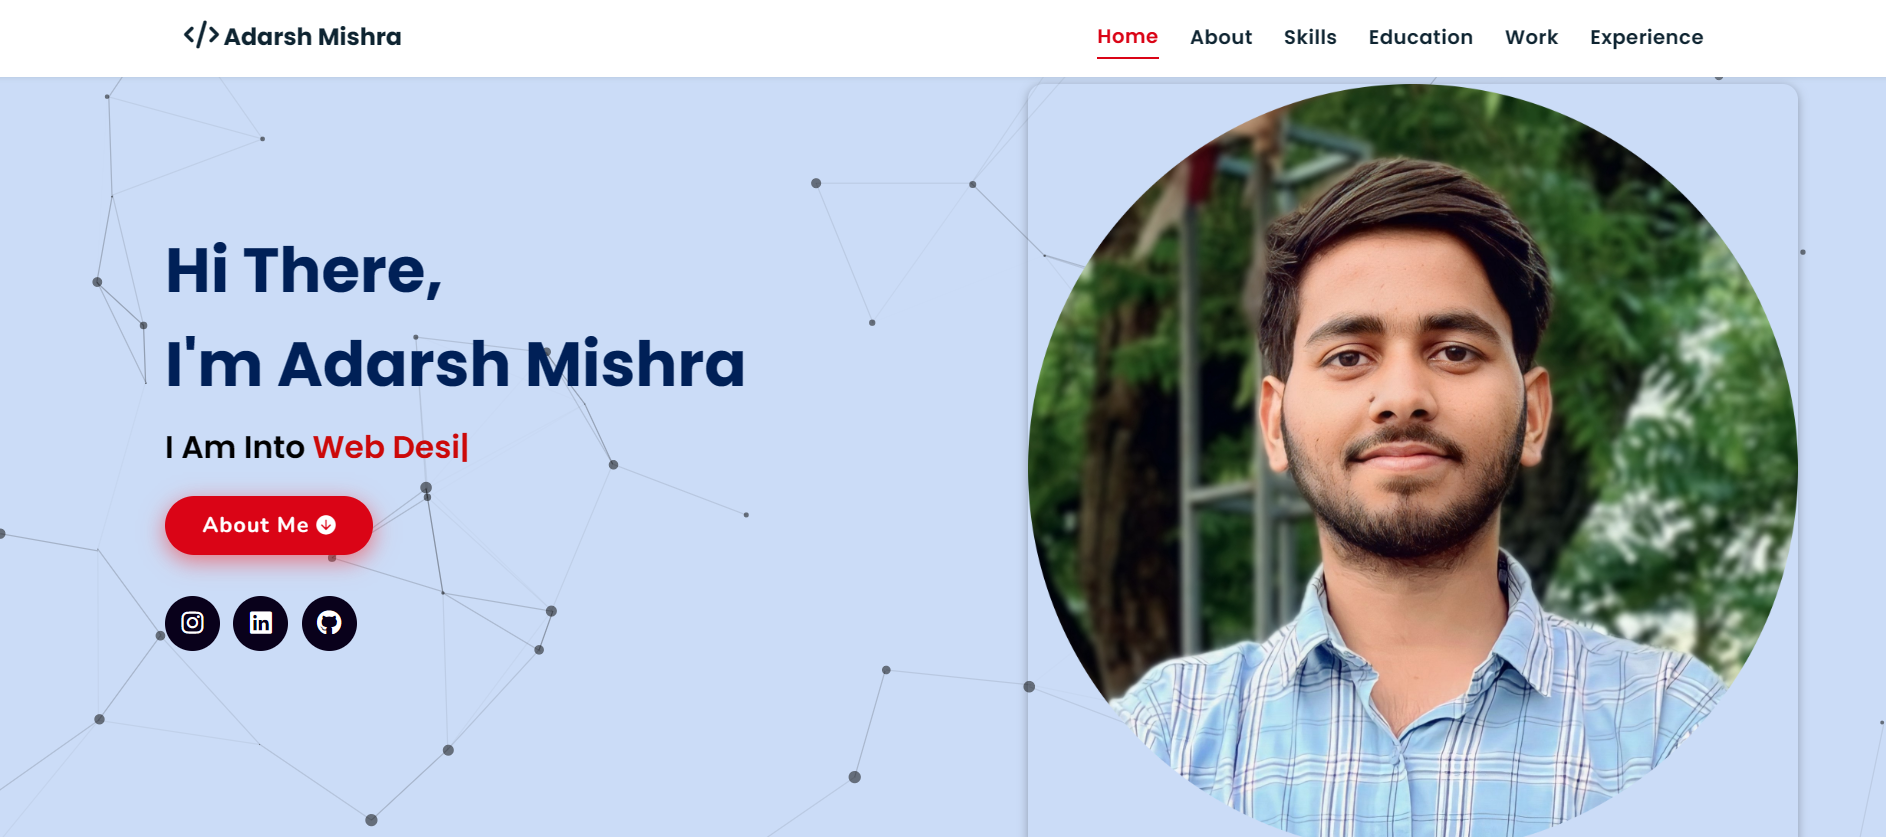
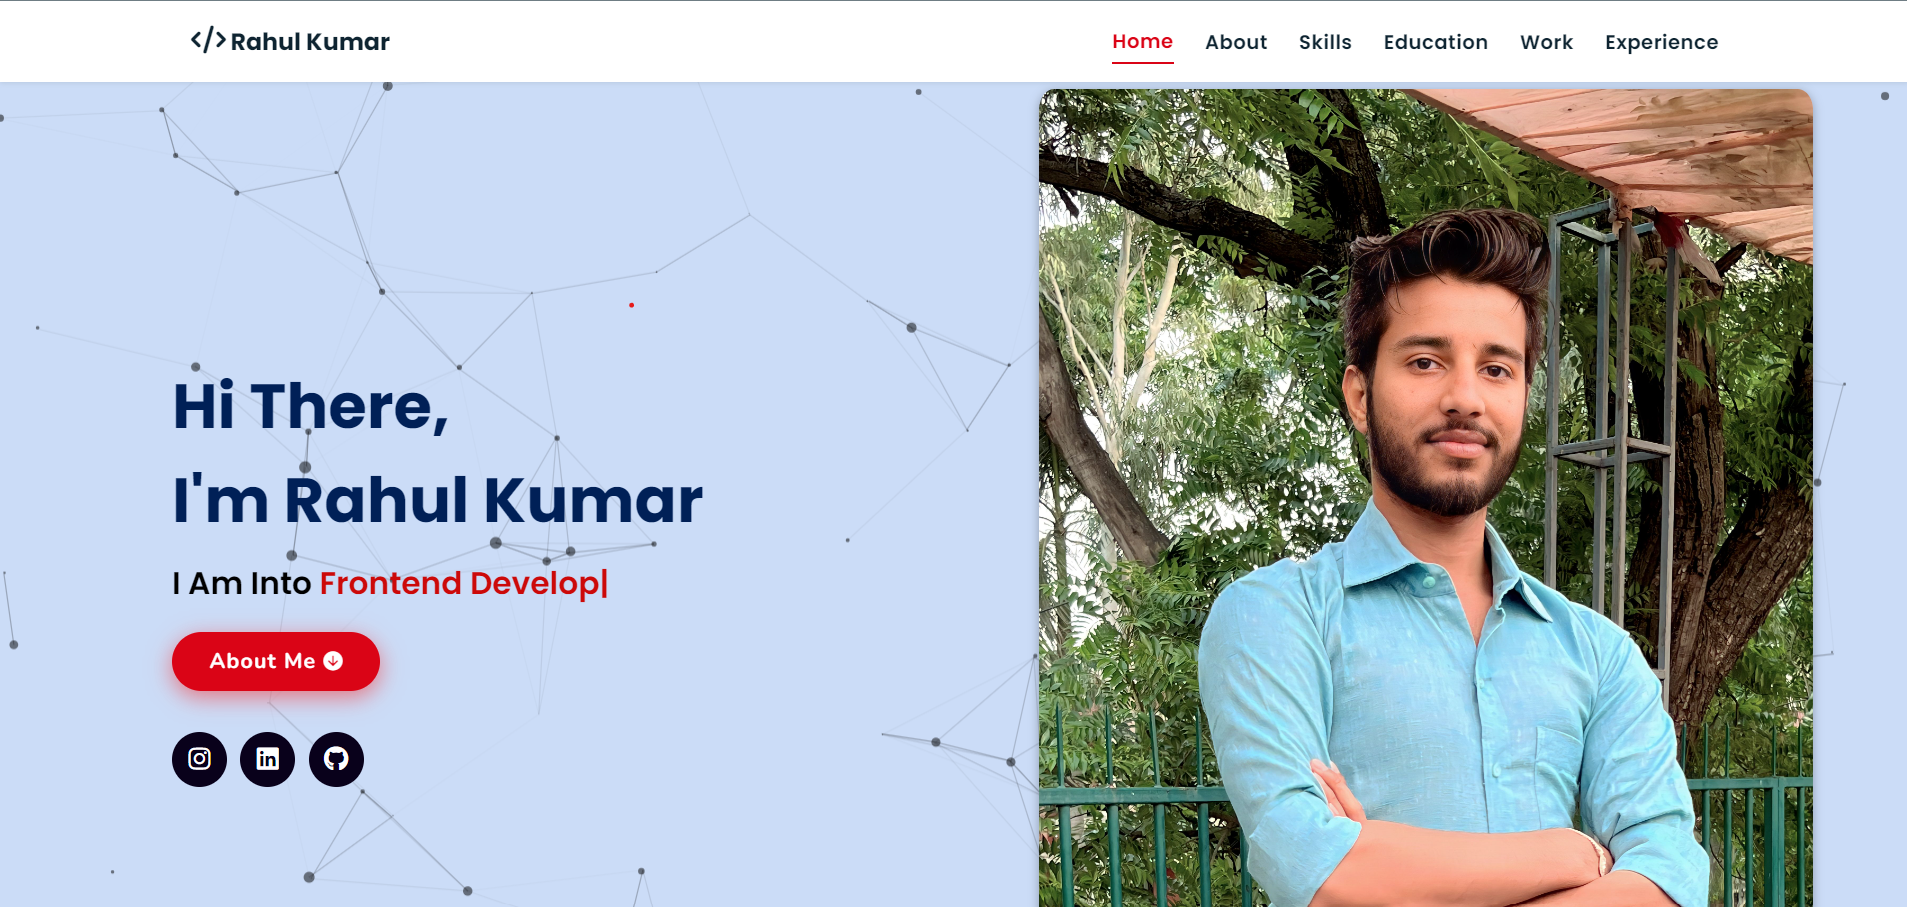
Updated images.

diff --git a/index.html b/index.html
@@ -6,9 +6,9 @@
   <meta http-equiv="X-UA-Compatible" content="IE=edge">
   <meta name="viewport" content="width=device-width, initial-scale=1.0">
   <meta name="keywords"
-    content="Pragati sable, portfolio, Pragati, full stack dev, personal portfolio lifecodes, portfolio design, portfolio website, personal portfolio" />
+    content="Portfolio, full stack dev, personal portfolio lifecodes, portfolio design, portfolio website, personal portfolio" />
   <meta name="description"
-    content="Welcome to Pragati's Portfolio. Full-Stack Web Developer and Android App Developer" />
+    content="Welcome to My Portfolio. Full-Stack Web Developer and Software Developer" />
   <!-- Custom CSS -->
   <link rel="stylesheet" href="./assets/css/style.css">
   <!-- Font Awesome -->
@@ -18,7 +18,7 @@
   <script src="https://kit.fontawesome.com/95a2002ecf.js" crossorigin="anonymous"></script>
   <!-- Favicon -->
   <link id='favicon' rel="shortcut icon" href="./assets/images/adarsh.png" type="image/x-png">
-  <title>Portfolio | Adarsh Mishra</title>
+  <title>Portfolio | Rahul Kumar</title>
 </head>
 
 <body>
